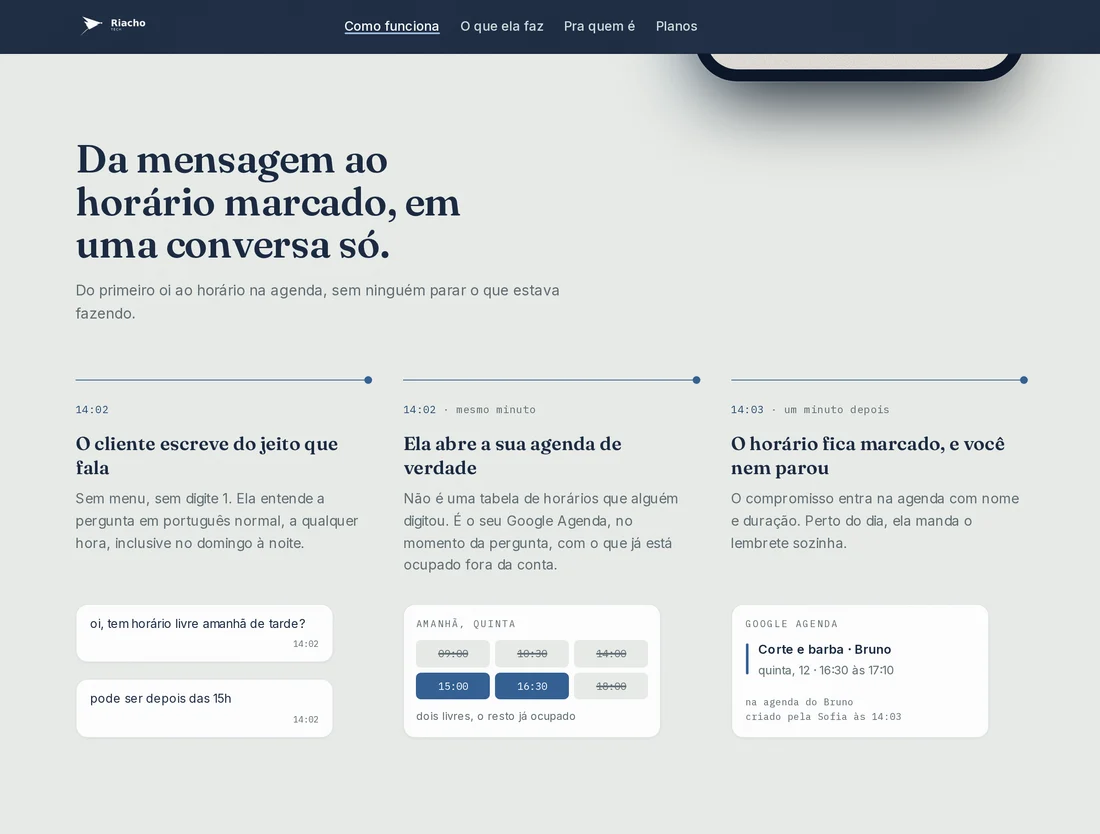
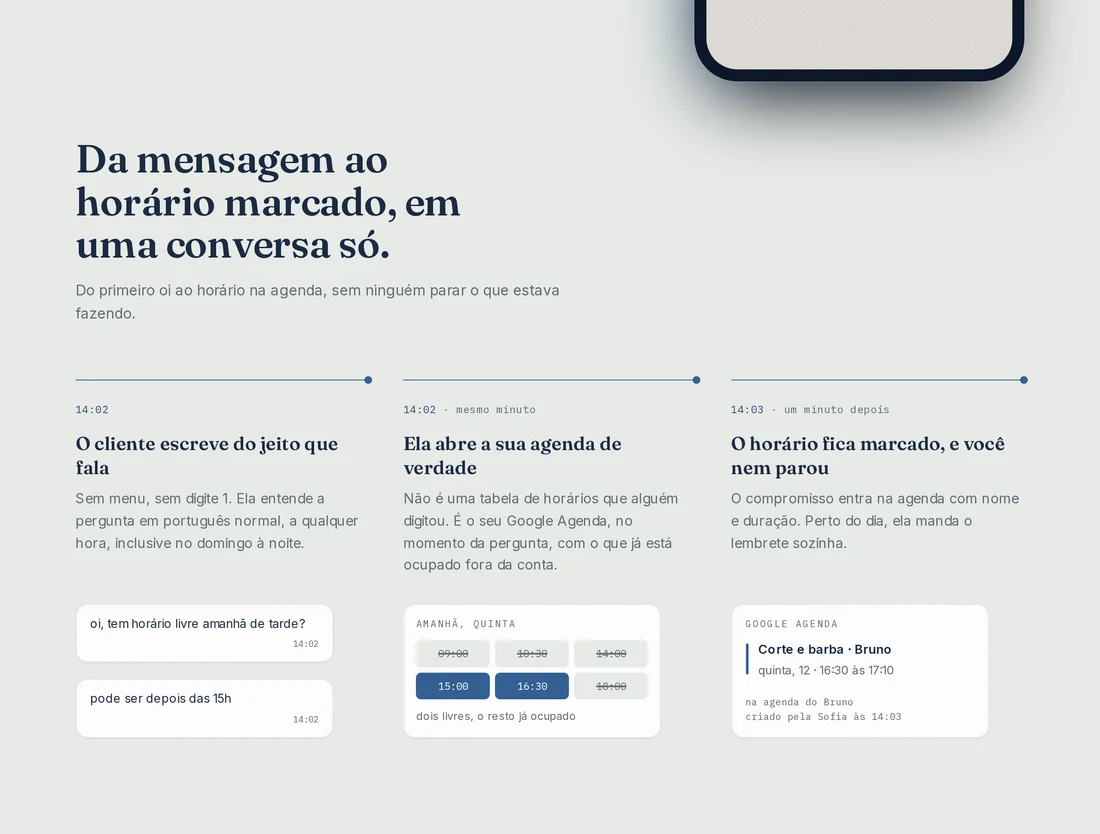
prints: a barra de topo saiu das de PC, e as tres de celular passam a sair iguais
Dois achados do fundador nas imagens do README.

## A barra atrapalhando

As prints de secao sao recorte do ELEMENTO, e a barra de topo e' `sticky`: ela
pinta por cima da secao e entrava dentro do recorte, com os links atravessados
no meio da imagem. Ela some por `visibility: hidden` so' na hora da captura de
secao — a print da primeira tela continua com ela, porque ali a barra faz parte
do que se ve.

## As tres de celular saindo de tamanhos diferentes

Os arquivos sempre tiveram o MESMO tamanho: 780x1688 os tres. O que variava era
a renderizacao — eles estavam numa tabela de tres colunas, e o GitHub dimensiona
coluna pelo conteudo do cabecalho, entao "a primeira tela" e "pra quem e'" davam
colunas de larguras diferentes e as imagens escalavam junto.

Viraram tres `<img width="255">` soltos, fora de tabela. Largura declarada nao
depende de quanto texto tem em volta.

Vale como regra e ficou escrita em comentario no proprio README: **tabela de
markdown nao e' grade** — ela distribui largura por conteudo, e imagem dentro
dela herda essa distribuicao.

Changed region(s): [[0.0, 0.0, 1.0, 0.0624]]

diff --git a/README.md b/README.md
@@ -46,9 +46,19 @@ barbearia, petshop, oficina) sem recarregar nada, e as cinco conversas fecham o
 agendamento: antes elas paravam na pergunta, e mostravam a Sofia oferecendo sem
 nunca marcar.
 
-| a primeira tela | "o que ela faz" | "pra quem é" |
-|---|---|---|
-| ![Primeira tela em 390 px](docs/imagens/home-390-dobra.webp) | ![Seção "o que ela faz" em 390 px](docs/imagens/home-390-recursos.webp) | ![Seção por ramo em 390 px](docs/imagens/home-390-segmentos.webp) |
+Da esquerda para a direita: a primeira tela, "o que ela faz" e "pra quem é".
+
+<p>
+  <img src="docs/imagens/home-390-dobra.webp" alt="Primeira tela do site em 390 px" width="255">
+  <img src="docs/imagens/home-390-recursos.webp" alt="Seção o que ela faz em 390 px" width="255">
+  <img src="docs/imagens/home-390-segmentos.webp" alt="Seção por ramo em 390 px" width="255">
+</p>
+
+<!-- Largura fixa em `<img>`, e não uma tabela de três colunas: numa tabela o
+     GitHub dimensiona cada coluna pelo conteúdo do cabeçalho, então "a primeira
+     tela" e "pra quem é" davam colunas de larguras diferentes e as três telas
+     saíam com tamanhos diferentes, embora os arquivos tenham os mesmos 780x1688.
+     Achado do fundador. -->
 
 E a seção de planos, que é onde o site precisa ser mais claro:
 
